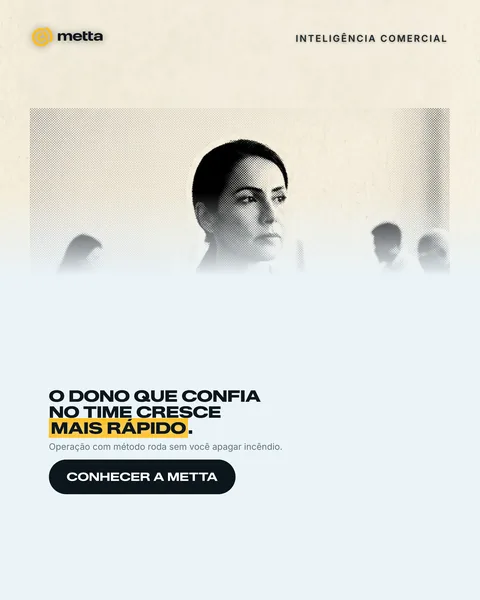
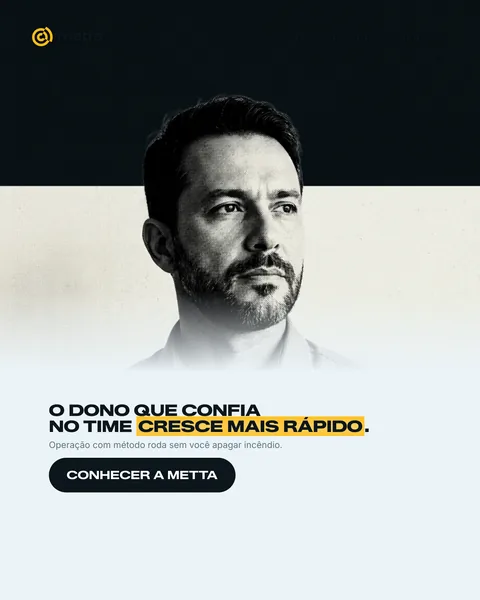
fix(FOTO-PILL): foto dominante (62%) + texto colado embaixo — mata a faixa branca vazia
Feedback do Nathan: o branco embaixo comia metade do canvas e a foto ficava
espremida. Agora a foto ocupa 62% (YAML pede 55-65%), o gradiente encurta pra 22%
e o texto ancora logo abaixo (flex-start). Novo hook data-model no render pra
segmentar CSS por modelo sem afetar outros (ex: B, que também é photo-band).

diff --git a/source/ad-blueprints/_engine.css b/source/ad-blueprints/_engine.css
@@ -743,3 +743,9 @@ button { all: unset; }
 .ad[data-ornament="draw"] .layer { justify-content: flex-start; padding-top: 13%; }
 .ad-ornament--draw .draw-illo { position: absolute; left: 9%; right: 9%; bottom: 15%;
   width: 82%; height: 32%; }
+
+/* FOTO-PILL: foto DOMINANTE (YAML pede 55-65%) + texto colado embaixo, sem
+   deixar faixa clara vazia comendo metade do canvas (feedback Nathan) */
+.ad[data-model="FOTO-PILL-CASUAL"] .photo { height: 62%; }
+.ad[data-model="FOTO-PILL-CASUAL"] .photo::after { height: 22%; }
+.ad[data-model="FOTO-PILL-CASUAL"] .layer { justify-content: flex-start; padding-top: 44px; }

diff --git a/api/_blueprint_render.py b/api/_blueprint_render.py
@@ -819,7 +819,7 @@ def render(marca: str, model_id: str, copy: dict, image_url: str = "", format: s
     marca_attr = (fm.get("marca") or marca or "").strip().lower()
     brand = _brand_mark(marca_attr, arch, theme, params)
     data_attrs = (
-        f'data-marca="{_esc(marca_attr)}" '
+        f'data-marca="{_esc(marca_attr)}" data-model="{_esc(model_id)}" '
         f'data-case="{_esc(case)}" data-orient="{_esc(orient)}" '
         f'data-arch="{_esc(arch)}" data-theme="{_esc(theme)}" data-format="{_esc(format)}" '
         f'data-align="{_esc(align)}" data-scale="{_esc(scale)}" data-photo="{_esc(photo)}" '
